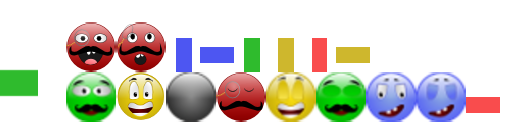
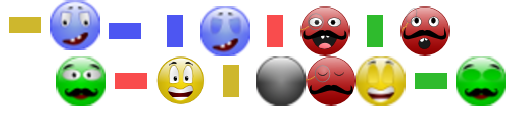
liaisons fixed.

diff --git a/puyopuyo-android/src/com/tacoid/puyopuyo/actors/GridActor.java b/puyopuyo-android/src/com/tacoid/puyopuyo/actors/GridActor.java
@@ -64,15 +64,15 @@ public class GridActor extends Actor {
 		boules_fall[3] = puyopuyo.atlasPuyo.findRegion("blue_happy-48");
 		boules_fall[4] = puyopuyo.atlasPuyo.findRegion("nuisance");
 		
-		boules_h[0] = puyopuyo.atlasPuyo.findRegion("vert_horizontal");
-		boules_h[1] = puyopuyo.atlasPuyo.findRegion("jaune_horizontal");
-		boules_h[2] = puyopuyo.atlasPuyo.findRegion("rouge_horizontal");
-		boules_h[3] = puyopuyo.atlasPuyo.findRegion("bleu_horizontal");
+		boules_h[0] = puyopuyo.atlasPuyo.findRegion("green_horizontal");
+		boules_h[1] = puyopuyo.atlasPuyo.findRegion("yellow_horizontal");
+		boules_h[2] = puyopuyo.atlasPuyo.findRegion("red_horizontal");
+		boules_h[3] = puyopuyo.atlasPuyo.findRegion("blue_horizontal");
 
-		boules_v[0] = puyopuyo.atlasPuyo.findRegion("vert_vertical");
-		boules_v[1] = puyopuyo.atlasPuyo.findRegion("jaune_vertical");
-		boules_v[2] = puyopuyo.atlasPuyo.findRegion("rouge_vertical");
-		boules_v[3] = puyopuyo.atlasPuyo.findRegion("bleu_vertical");
+		boules_v[0] = puyopuyo.atlasPuyo.findRegion("green_vertical");
+		boules_v[1] = puyopuyo.atlasPuyo.findRegion("yellow_vertical");
+		boules_v[2] = puyopuyo.atlasPuyo.findRegion("red_vertical");
+		boules_v[3] = puyopuyo.atlasPuyo.findRegion("blue_vertical");
 		
 		white = puyopuyo.atlasPuyo.findRegion("white");
 	}
